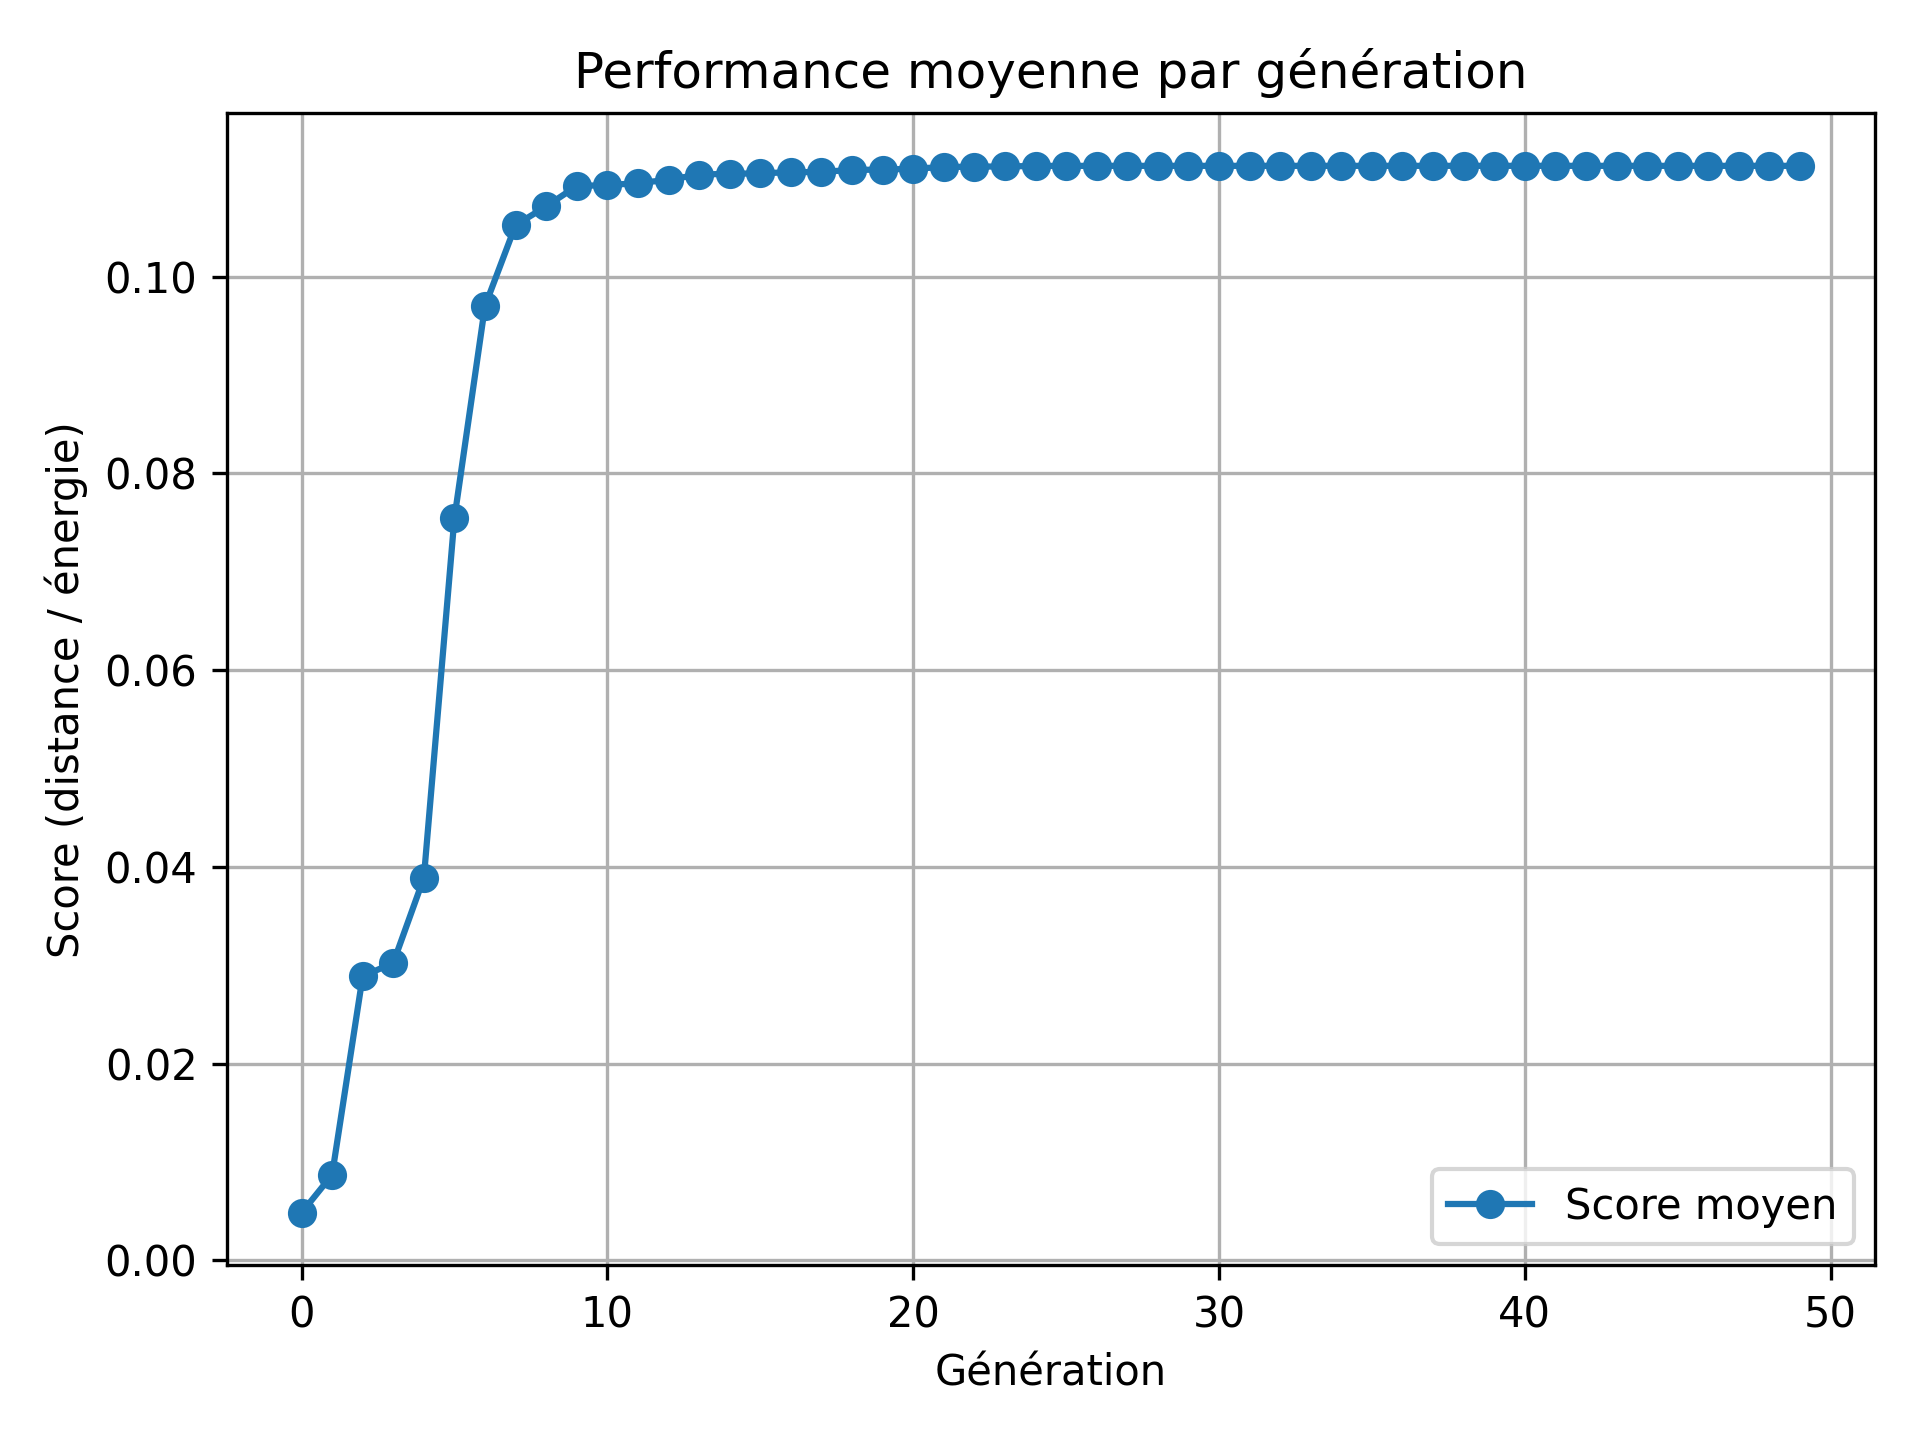
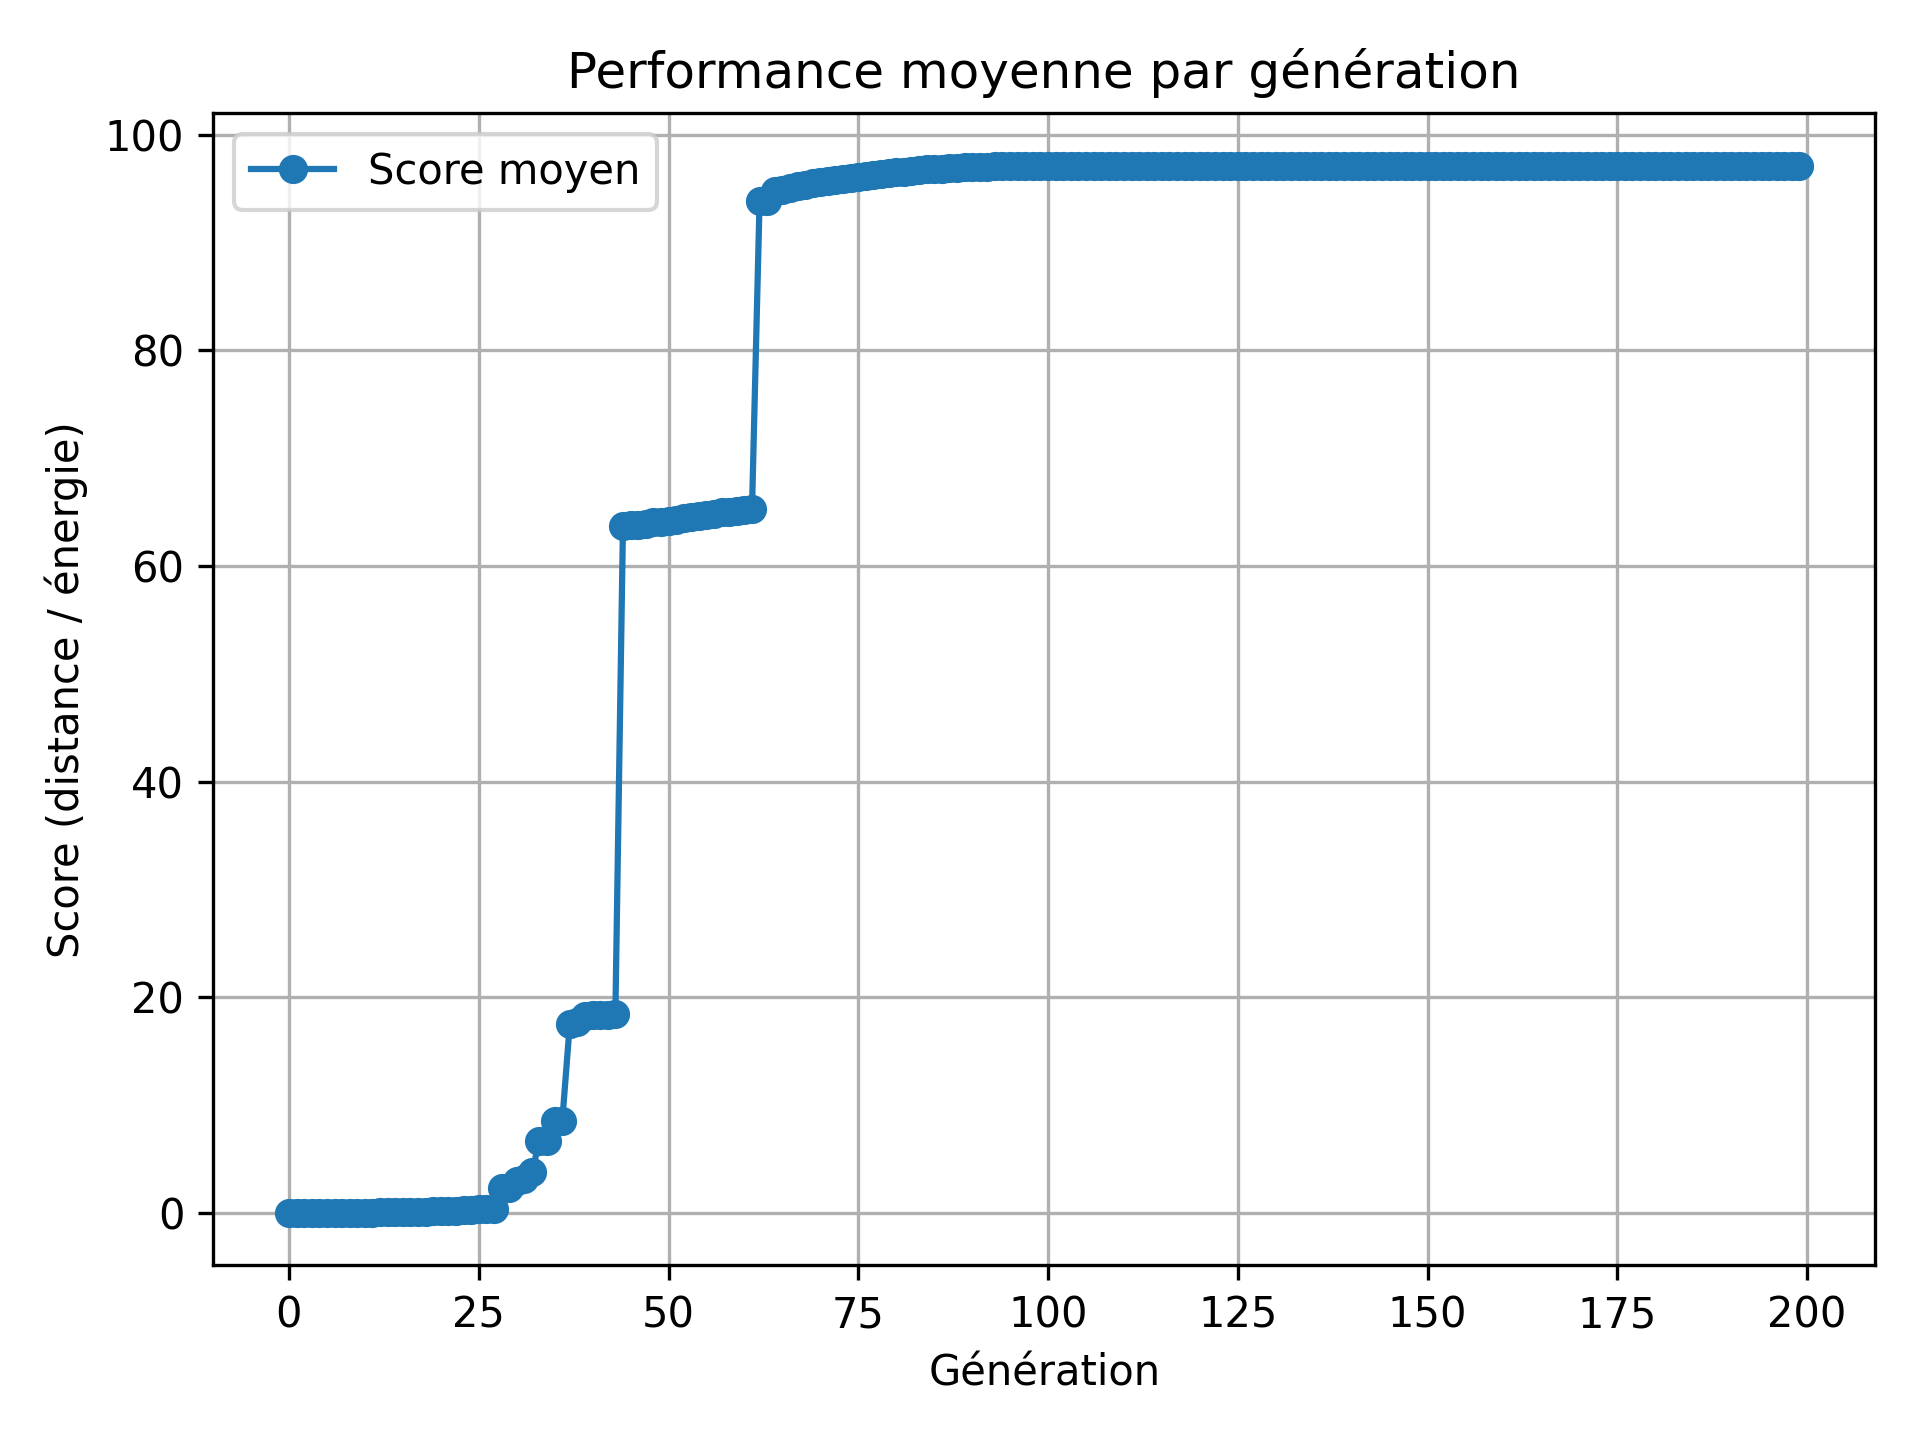
new mega genom

diff --git a/simulate_population.py b/simulate_population.py
@@ -26,8 +26,8 @@ minimal_genome = {
 
 n = 100
 dt = 0.01
-steps = 1000
-generations = 50
+steps = 500
+generations = 200
 keep_fraction = 0.1
 mutation_strength = 0.01
 
